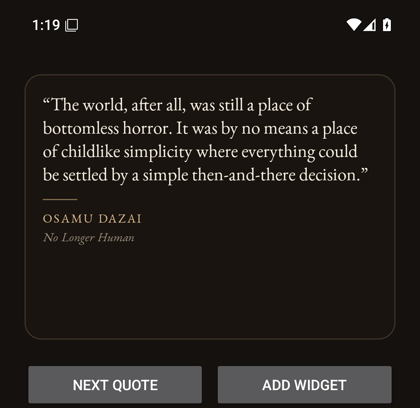
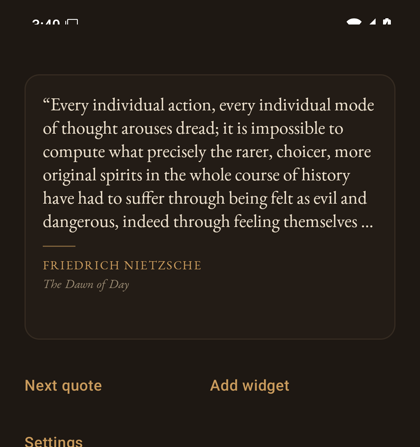
feat: dress the app in the desktop sepia palette
The app now reads as one print with the desktop. The palette comes from
the desktop scheme: base #1e1813, surface #241d17, text #ece0cd, primary
#c99a5b. The theme points the window background and every control tint at
those roles, so the switches, the seek bar, and the accent follow.

A design seed rolled from /dev/urandom, 62314, sets the card radius to
14dp, the card alpha to 0.78, the author letterspacing to 0.10em, and the
rule width to 32dp. The derivation is in android/AGENTS.md, so the design
is reproducible and can be re-rolled.

Styling stays minimal: two typefaces, flat buttons with no slab, one
accent. The README images are recaptured.

Closes #18

diff --git a/android/AGENTS.md b/android/AGENTS.md
@@ -39,11 +39,32 @@ Gradle project under `android/`, Kotlin sources under
   inflates the same layout. The widget overrides them per placement.
 - Every render logs one line: `widget <id> is <w>x<h>dp: <size>sp, maxLines <n>,
   padding <n>dp`. Use `adb logcat -s quotes:I` to see what the launcher reported.
+
+## Styling
+
+- The palette is the desktop sepia scheme, so the phone and the desktop read as
+  one print: `base #1e1813` for the screen, `surface #241d17` for the card,
+  `text #ece0cd`, `primary #c99a5b` for the accent, `textDim #9c8c74`,
+  `outline #5f4d3a` for the card edge. Change them in `res/values/colors.xml`
+  only.
+- A few numbers come from a design seed, rolled from `/dev/urandom` as `62314`:
+  the card radius is `12 + seed % 3 * 2 = 14dp`, the card alpha is
+  `0.72 + 0.06 * (seed % 3) = 0.78`, and the author letterspacing is
+  `0.08 + 0.02 * (seed % 3) = 0.10em`. The rule width and the spacing scale
+  follow the same idea: `res/values/dimens.xml`. Re-roll the seed and recompute
+  those numbers, rather than editing them by feel.
+- Keep it minimal: two typefaces (EB Garamond for the card and the section
+  headings, the system face for controls), flat buttons with no slab, one
+  accent, and no shadows beyond the card.
+- The widget card and the app preview share `widget_card.xml` and the same
+  drawables, so a colour change reaches both.
+- The card colour switch in the settings picks the light drawable and the
+  `*_light` colours. Add a colour to both sets, or the light card breaks.
 - Settings live in `SettingsActivity`, one section each: rotation, sources,
   card, order, and updates. Every change writes to `Prefs` and calls
-  `WidgetRenderer.updateAll` at once, so there is no Apply button. `MainActivity`
-  keeps only the card, the next-quote button, the add-widget button, and the
-  button that opens the settings.
+  `WidgetRenderer.updateAll` at once, so there is no Apply button.
+  `MainActivity` keeps only the card, the next-quote button, the add-widget
+  button, and the button that opens the settings.
 - Source selections are multi-choice lists built from the corpus, not free text.
   An empty selection means the whole corpus, and a selection that matches nothing
   falls back to the whole corpus.
